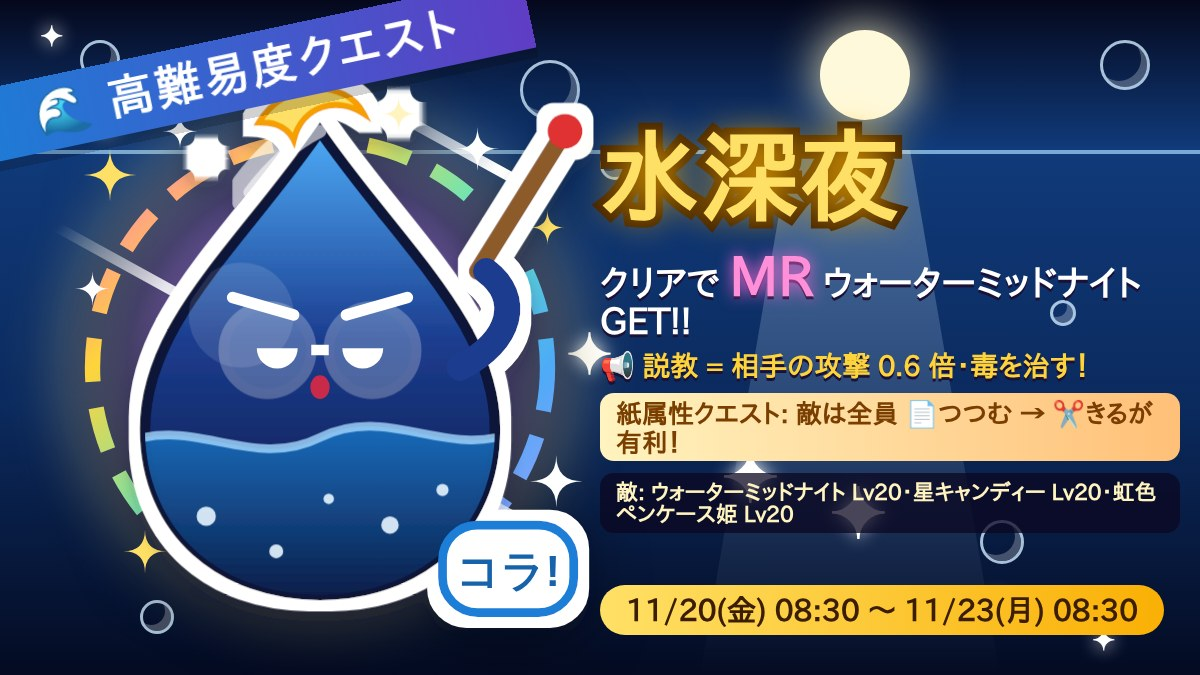
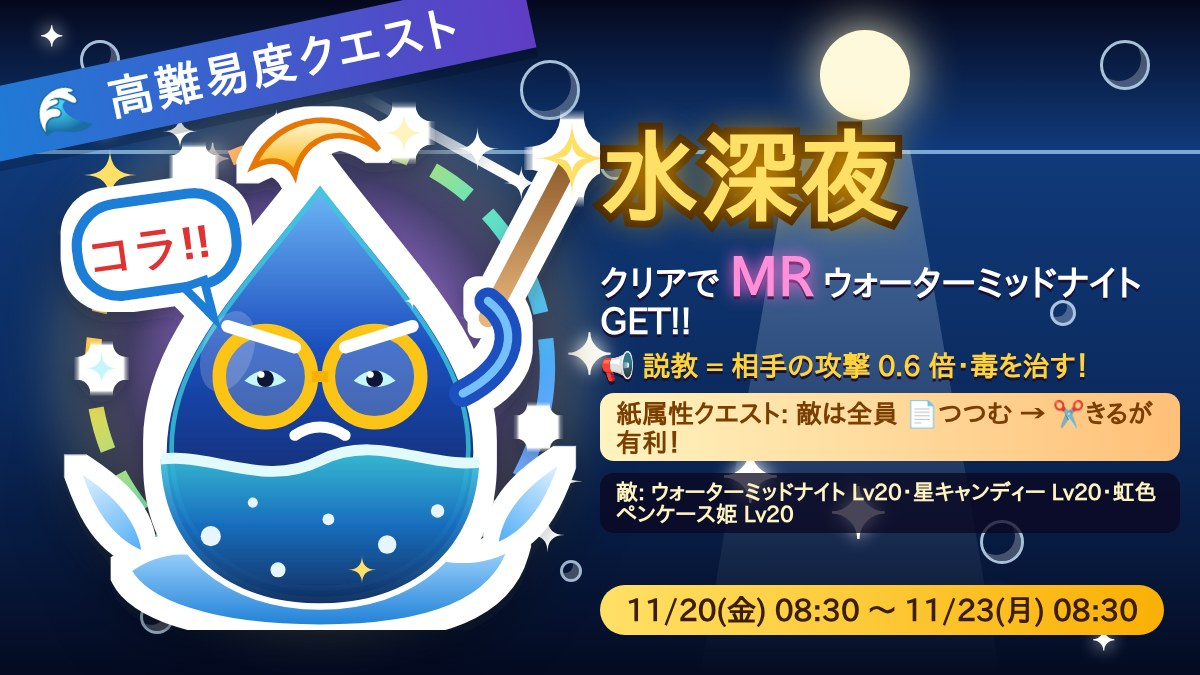
ウォーターミッドナイトをもっとドパなデザインに (金のメガネ・しぶきの台座・キラキラ・星の指し棒)、水深夜のバナーを作り直し
Claude-Session: https://claude.ai/code/session_0131LAB3VBSEDYy6z21kYLHB

Changed region(s): [[0.0308, 0.0933, 0.5242, 0.9333]]

diff --git a/public/cards-art.js b/public/cards-art.js
@@ -367,24 +367,33 @@
       // ウォーターミッドナイト (MR・つつむ・説教): 真夜中色の水筆ペン。しずく形の水タンクの中に夜の海と星、
       // 頭に三日月のキャップ、まるメガネ、指し棒をかまえて説教する
       watermid: () => {
-        const drop = `M60,8 C78,34 100,52 100,76 C100,100 82,114 60,114 C38,114 20,100 20,76 C20,52 42,34 60,8Z`;
-        return `
-        <path d="M96,40 L116,8" stroke="#8d5a2b" stroke-width="4" stroke-linecap="round"/><circle cx="116" cy="8" r="4" fill="#e03131"/>
-        <path d="${drop}" fill="${lg('wm', [[0, '#4dabf7'], [0.45, '#1c3d8f'], [1, '#0b1238']])}" stroke="#0b1238" stroke-width="2.4"/>
+        const drop = `M60,10 C78,34 98,52 98,76 C98,100 81,112 60,112 C39,112 22,100 22,76 C22,52 42,34 60,10Z`;
+        const ring = (r, w, o, dash) => `<circle cx="60" cy="72" r="${r}" fill="none" stroke="${lg('rg' + r, [[0, '#74c0fc'], [0.5, '#e5dbff'], [1, '#3bc9db']], 1, 1)}" stroke-width="${w}" opacity="${o}" stroke-dasharray="${dash}"/>`;
+        const splash = (x, y, a, s) => `<path transform="translate(${x} ${y}) rotate(${a}) scale(${s})" d="M0,0 C-6,-10 -2,-22 0,-28 C2,-22 6,-10 0,0Z" fill="${lg('sp', [[0, '#e7f5ff'], [1, '#4dabf7']])}" stroke="#fff" stroke-width="1"/>`;
+        return `<g transform="translate(60 66) scale(.96) translate(-60 -60)">
+        <path d="M14,104 C30,92 44,108 60,100 C76,92 90,108 106,98 C102,112 86,118 60,118 C34,118 18,112 14,104Z" fill="${lg('wv', [[0, '#a5d8ff'], [1, '#1c7ed6']])}" stroke="#fff" stroke-width="2"/>
+        ${splash(18, 100, -38, 0.9)}${splash(102, 98, 38, 0.9)}${splash(30, 92, -18, 0.6)}${splash(90, 90, 18, 0.6)}
+        <path d="M100,44 L120,6" stroke="${lg('pt', [[0, '#8d5a2b'], [1, '#e8b57a']])}" stroke-width="4.5" stroke-linecap="round"/>
+        ${twinkle(120, 6, 9, '#ffe066')}${twinkle(120, 6, 4, '#fff')}
+        <path d="${drop}" fill="${lg('wm', [[0, '#74c0fc'], [0.4, '#1c4fbf'], [1, '#0b1238']])}" stroke="#fff" stroke-width="3"/>
+        <path d="${drop}" fill="none" stroke="#3bc9db" stroke-width="1.2" opacity=".8" transform="translate(60 61) scale(.93) translate(-60 -61)"/>
         <g clip-path="${clip('wc', `<path d="${drop}"/>`)}">
-          <path d="M14,80 C30,72 44,86 60,78 C76,70 90,84 106,76 V120 H14Z" fill="${lg('sea', [[0, '#1971c2', 0.9], [1, '#0b1238', 1]])}"/>
-          <path d="M14,80 C30,72 44,86 60,78 C76,70 90,84 106,76" stroke="#a5d8ff" stroke-width="2" fill="none" opacity=".8"/>
-          ${[[34, 96, 2.2], [50, 104, 1.6], [76, 98, 2], [88, 90, 1.4], [62, 92, 1.2]].map(([x, y, r]) => `<circle cx="${x}" cy="${y}" r="${r}" fill="#e7f5ff" opacity=".9"/>`).join('')}
-          <circle cx="42" cy="50" r="12" fill="#fff" opacity=".12"/>
+          <path d="M14,80 C30,72 44,86 60,78 C76,70 90,84 106,76 V120 H14Z" fill="${lg('sea', [[0, '#3bc9db', 0.9], [0.4, '#1971c2', 0.95], [1, '#0b1238', 1]])}"/>
+          <path d="M14,80 C30,72 44,86 60,78 C76,70 90,84 106,76" stroke="#e3fafc" stroke-width="2.6" fill="none"/>
+          ${[[34, 96, 2.4], [50, 104, 1.8], [76, 98, 2.2], [88, 90, 1.6], [62, 92, 1.4], [44, 88, 1.2]].map(([x, y, r]) => `<circle cx="${x}" cy="${y}" r="${r}" fill="#e7f5ff"/>`).join('')}
+          ${twinkle(70, 104, 3.4, '#ffe066')}${twinkle(40, 34, 2.6, '#fff')}${twinkle(82, 40, 2, '#fff')}
+          <path d="M30,30 C36,22 44,18 50,16" stroke="#fff" stroke-width="5" stroke-linecap="round" opacity=".55"/>
+          <ellipse cx="38" cy="52" rx="6" ry="10" fill="#fff" opacity=".18" transform="rotate(20 38 52)"/>
         </g>
-        <path d="M44,22 C50,14 56,10 60,8" stroke="#fff" stroke-width="3" stroke-linecap="round" opacity=".6"/>
-        <path d="M46,6 C52,-4 66,-4 70,4 C64,0 56,2 54,10 C52,6 48,6 46,6Z" fill="#ffe066" stroke="#f59f00" stroke-width="1.4"/>
-        ${twinkle(78, 4, 4, '#fff3bf')}${twinkle(34, 14, 3, '#fff')}
-        <circle cx="48" cy="58" r="10" fill="#e7f5ff" opacity=".25" stroke="#fff" stroke-width="2.4"/><circle cx="72" cy="58" r="10" fill="#e7f5ff" opacity=".25" stroke="#fff" stroke-width="2.4"/><path d="M58,58 h4" stroke="#fff" stroke-width="2.4"/>
-        ${face(60, 58, { eyes: 'cool', mouth: 'o', s: 0.85, iris: '#fff', blush: false })}
-        <path d="M40,46 L54,50 M80,46 L66,50" stroke="#fff" stroke-width="2.6" stroke-linecap="round"/>
-        <path d="M92,62 C104,56 106,46 98,40" stroke="#1c3d8f" stroke-width="6" stroke-linecap="round" fill="none"/>
-        <rect x="88" y="98" width="30" height="20" rx="8" fill="#fff" stroke="#1c7ed6" stroke-width="2"/><text x="103" y="112" font-size="10" font-weight="900" text-anchor="middle" fill="#1864ab" font-family="sans-serif">コラ!</text>`;
+        <path d="M44,8 C50,-6 68,-6 74,4 C66,-2 56,0 54,10 C52,6 48,6 44,8Z" fill="${lg('mn', [[0, '#fff9db'], [1, '#fab005']])}" stroke="#e67700" stroke-width="1.4"/>
+        ${twinkle(80, 0, 5, '#fff3bf')}${twinkle(30, 8, 3.4, '#fff')}${twinkle(8, 56, 4, '#c5f6fa')}${twinkle(112, 70, 3.4, '#fff')}
+        <circle cx="47" cy="58" r="11" fill="#e7f5ff" fill-opacity=".22" stroke="#fcc419" stroke-width="3.2"/><circle cx="73" cy="58" r="11" fill="#e7f5ff" fill-opacity=".22" stroke="#fcc419" stroke-width="3.2"/><path d="M58,58 h4" stroke="#fab005" stroke-width="2.6"/>
+        <path d="M42,59 Q47,54 52,59 Q47,62 42,59Z M68,59 Q73,54 78,59 Q73,62 68,59Z" fill="#c5f6fa"/><circle cx="47" cy="58.5" r="2" fill="#0b1238"/><circle cx="73" cy="58.5" r="2" fill="#0b1238"/><circle cx="46" cy="57.5" r=".8" fill="#fff"/><circle cx="72" cy="57.5" r=".8" fill="#fff"/>
+        <path d="M38,46 L54,51 M82,46 L66,51" stroke="#fff" stroke-width="3" stroke-linecap="round"/>
+        <path d="M54,72 Q60,68 66,72" stroke="#fff" stroke-width="2.6" fill="none" stroke-linecap="round"/>
+        <path d="M94,62 C106,56 108,46 100,40" stroke="#1c4fbf" stroke-width="6.5" stroke-linecap="round" fill="none"/><path d="M94,62 C106,56 108,46 100,40" stroke="#74c0fc" stroke-width="2" stroke-linecap="round" fill="none"/>
+        <g transform="rotate(-8 18 26)"><rect x="2" y="16" width="38" height="22" rx="10" fill="#fff" stroke="#1c7ed6" stroke-width="2.4"/><path d="M26,38 l6,8 l-1,-9z" fill="#fff" stroke="#1c7ed6" stroke-width="2"/><text x="19" y="31.5" font-size="11" font-weight="900" text-anchor="middle" fill="#e03131" font-family="sans-serif">コラ!!</text></g>
+        </g>`;
       },
       case: () => `
         ${heart(18, 30, 1.2, '#ff8fab')}${heart(104, 26, 0.9, '#b197fc')}

diff --git a/public/index.html b/public/index.html
@@ -226,7 +226,7 @@
   </div>
 </div>
 
-<script src="/cards-art.js?v=13"></script>
+<script src="/cards-art.js?v=14"></script>
 <script src="/app.js?v=89"></script>
 </body>
 </html>
